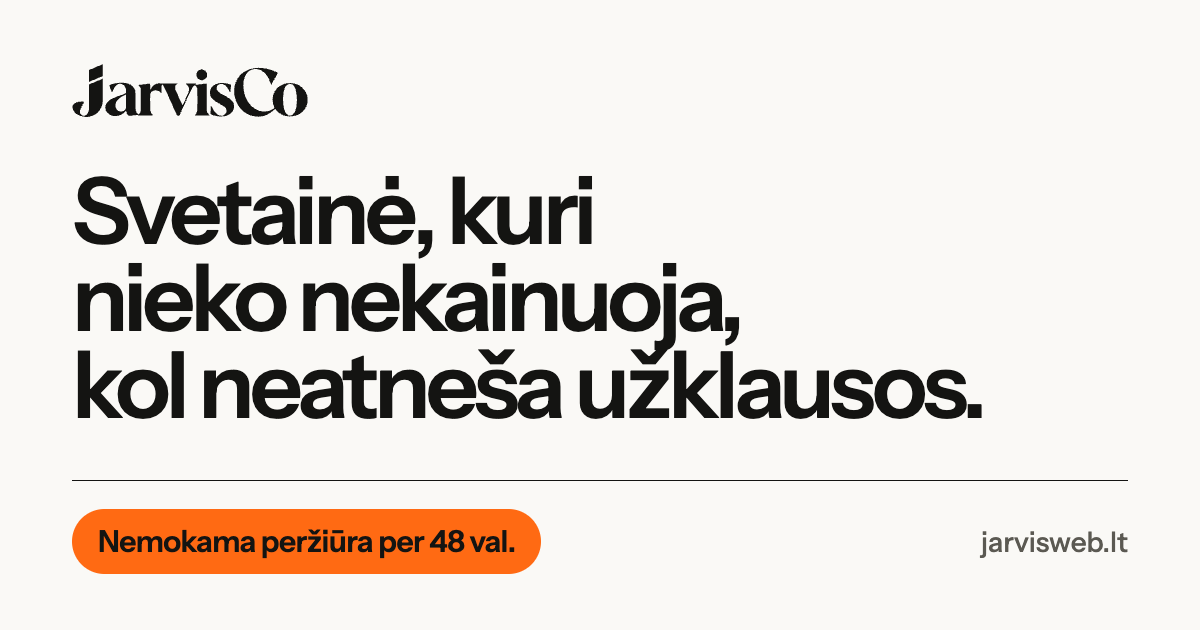
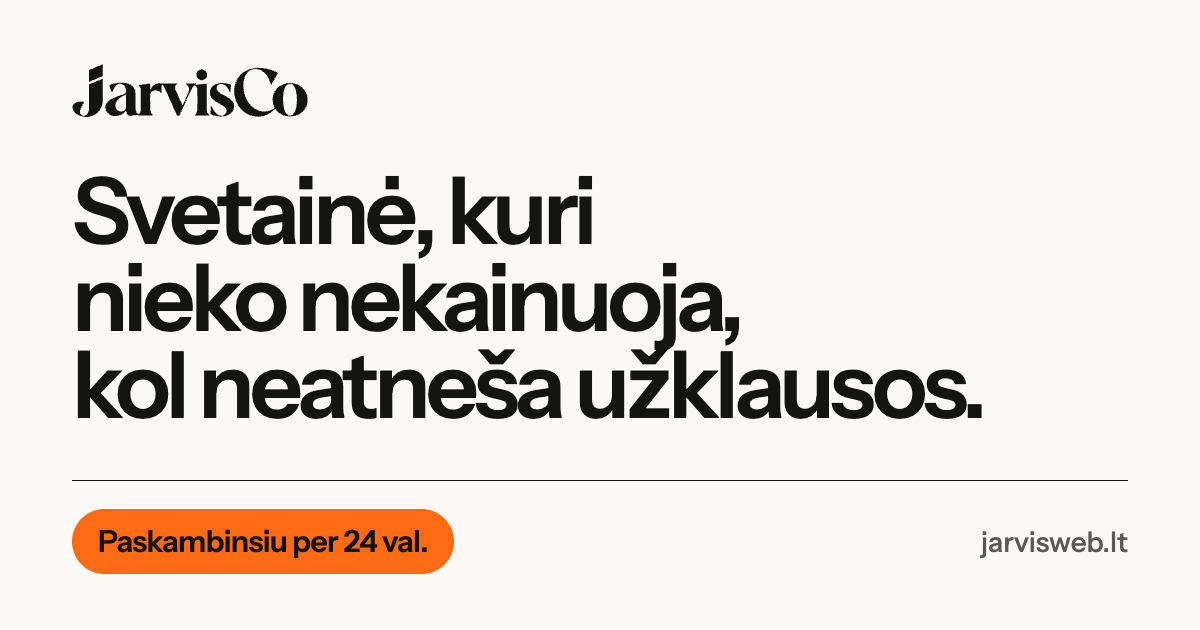
draft: apply Matas-approved copy 1-3 to own site, remove 48 h promise

Changed region(s): [[0.0617, 0.7841, 0.4625, 0.9349]]

diff --git a/src/data/v4.js b/src/data/v4.js
@@ -93,8 +93,12 @@ export function formsProof(f) {
   };
 }
 
-export const ZERO = '0 € pirmąsias 60 dienų nuo paleidimo.';
-export const DOMAIN = 'Domeną (~15 € per metus) apmokate Jūs, ir jis registruojamas Jūsų vardu.';
+export const ZERO = '0 € pirmąsias 60 dienų nuo svetainės paleidimo Jūsų domene.';
+export const DOMAIN = 'Jei reikia naujo domeno, jo mokestį (~15 € per metus) apmokate Jūs. Domenas registruojamas Jūsų vardu.';
+// Matas-approved 2026-10-25 (approved-copy-lt.md): 1 = callback + preview, 2 = work order, 3 = trial start.
+export const COPY_CALLBACK = 'Palikite kontaktus – paskambinsiu per 24 valandas. Gavęs reikiamus duomenis ir, jei reikia naujo domeno, jo apmokėjimą, per dvi darbo dienas paruošiu Jūsų svetainės peržiūrą.';
+export const COPY_ORDER = 'Po pokalbio ir susitarimo atsiunčiu vieną nuorodą trūkstamiems duomenims pateikti. Jei reikia naujo domeno, apmokate jo mokestį – apie 15 € per metus. Gavęs duomenis ir apmokėjimą, domeną registruoju Jūsų vardu ir paruošiu svetainės peržiūrą. Jei domeną jau turite, susitariame dėl jo prieigos. Peržiūrą pakoreguoju pagal Jūsų pastabas ir, Jums patvirtinus, paleidžiu svetainę.';
+export const COPY_TRIAL = '60 dienų bandomasis laikotarpis be mėnesinio mokesčio prasideda, kai Jūsų patvirtintą svetainę paleidžiu Jūsų domene ir ji veikia.';
 export const MAIN_CTA = 'Gauti nemokamą peržiūrą';
 
 export const header = {
@@ -128,12 +132,12 @@ export const hero = {
     lines: [`${formsTwoMonths} užklausų vien per formą`, 'per 2 mėnesius.'],
     sub: [
       `Tiek užklausų per svetainės formą per rugpjūtį ir rugsėjį gavo arboristas Mantas Gerulis (arbcut.lt). Skambučiai neįskaičiuoti. Žemiau – originalios ekrano kopijos.`,
-      'Tokią pat svetainę galiu sukurti ir Jums: pirmąsias 60 dienų mėnesio mokesčio nėra, mokate tik už domeną (~15 € per metus). Tada pagal ataskaitą nusprendžiate, ar tęsti.',
+      'Tokią pat svetainę galiu sukurti ir Jums: pirmąsias 60 dienų mėnesio mokesčio nėra, jei reikia naujo domeno, mokate tik jo mokestį (~15 € per metus). Tada pagal ataskaitą nusprendžiate, ar tęsti.',
     ],
   },
   sub: [
-    'Nemokama Jūsų svetainės peržiūra per 48 val. Paleidus svetainę pirmąsias 60 dienų mėnesio mokesčio nėra, o tada pagal ataskaitą nusprendžiate, ar tęsti.',
-    'Mokate tik už domeną (~15 € per metus), ir jis registruojamas Jūsų vardu.',
+    COPY_CALLBACK,
+    COPY_TRIAL,
   ],
   sms: 'Parašyti SMS',
   // Hero plan §4 (concept A1): an illustration, not a client. The flat lay is AI-generated; the screen is a real screenshot of our demo.
@@ -142,9 +146,9 @@ export const hero = {
 };
 
 export const offerRow = [
-  { big: 'Nemokama', text: 'peržiūra per 48 val.' },
-  { big: '0 €', text: 'pirmąsias 60 dienų nuo paleidimo' },
-  { big: 'Domenas', text: 'Jūsų vardu, ~15 € per metus' },
+  { big: 'Per 24 val.', text: 'paskambinsiu po užklausos' },
+  { big: '0 €', text: 'pirmąsias 60 dienų nuo paleidimo Jūsų domene' },
+  { big: 'Naujas domenas', text: 'jei reikia: Jūsų vardu, ~15 € per metus' },
   { big: 'Atsisakyti', text: 'galite bet kada' },
 ];
 
@@ -194,12 +198,12 @@ export const compare = {
 
 export const how = {
   label: 'Kaip tai veikia',
-  title: 'Keturi žingsniai, mokate tik paskutiniame',
-  text: 'Nuo formos iki veikiančios svetainės. Visą darbą darau pats.',
+  title: 'Keturi žingsniai nuo formos iki paleidimo',
+  text: COPY_ORDER,
   steps: [
     { title: 'Forma, 2 min.', text: 'Atsakote į kelis klausimus apie savo darbą.' },
-    { title: 'Peržiūra per 48 val.', text: 'Atsiunčiu nuorodą į Jūsų svetainės peržiūrą. Nepatinka – tiesiog neatsakote.' },
-    { title: 'Domenas ir paleidimas', text: 'Patinka – registruoju domeną Jūsų vardu (~15 € per metus, mokate Jūs). Paleidžiu svetainę ir Google verslo profilį.' },
+    { title: 'Peržiūra per dvi darbo dienas', text: 'Gavęs reikiamus duomenis ir, jei reikia naujo domeno, jo apmokėjimą, per dvi darbo dienas paruošiu Jūsų svetainės peržiūrą.' },
+    { title: 'Pastabos ir paleidimas', text: 'Peržiūrą pakoreguoju pagal Jūsų pastabas ir, Jums patvirtinus, paleidžiu svetainę bei Google verslo profilį.' },
     { title: 'Po 60 dienų – ataskaita', text: 'Atsiunčiu ataskaitą: kiek žmonių rado svetainę Google, paspaudė „Skambinti“ ir parašė. Tęsiate už 49 € per mėnesį arba atsisakote, ir tai nieko nekainuoja.' },
   ],
 };
@@ -220,7 +224,7 @@ export const examples = {
   // Hero plan §5 D3: generic portal card, demo data only, no real portal, rating or person.
   beforeAfter: {
     from: 'Iš to, ką jau turite internete',
-    to: 'tokia svetainė per 48 val.',
+    to: 'tokia gali būti Jūsų svetainė',
     beforeTag: 'Prieš: profilis portale',
     afterTag: 'Po: Jūsų svetainė',
     portal: 'Paslaugų portalas',
@@ -242,7 +246,7 @@ export const price = {
   // Jarvis 2026-10-22: 39 € is the founder price for the first 5 clients only (slot rule A2); clients #6–10 pay 49 € (Matas 2026-10-22), locked while subscribed.
   // The founder line follows FOUNDER_SLOTS_LEFT in ./founder.js (edit only that number).
   launch: founderLaunch,
-  before: `${ZERO} ${DOMAIN}`,
+  before: `${COPY_TRIAL} ${DOMAIN}`,
   includesTitle: 'Į kainą įeina',
   includes: [
     'Svetainė ir talpinimas',
@@ -271,11 +275,11 @@ export const faq = {
   title: 'Dažni klausimai',
   items: [
     { q: 'Darbo per valias, kam man?', a: 'Svetainė nebūtinai reiškia daugiau darbo. Daugiau užklausų – daugiau pasirinkimo, kuriuos darbus imti. O ramesniu sezonu ji jau būna Google.' },
-    { q: 'Turėjau svetainę, nieko nedavė', a: 'Dažniausiai tokia svetainė tiesiog niekam nerodoma: nėra Google verslo profilio, nėra puslapių pagal paslaugas ir miestus. Čia jie įeina. Ir pirmąsias 60 dienų mėnesio mokesčio nėra, todėl rezultatą pamatysite prieš mokėdami.' },
-    { q: 'Kas, jei neatneš užklausų?', a: `Pirmąsias 60 dienų nuo paleidimo mėnesio mokesčio nėra – mokate tik už domeną (~15 € per metus). Tada atsiunčiu ataskaitą. Jei rezultatas netenkina, atsisakote, ir tai nieko nekainuoja. Jei liksite, toliau – 49 € per mėnesį${founderNote}.` },
+    { q: 'Turėjau svetainę, nieko nedavė', a: 'Dažniausiai tokia svetainė tiesiog niekam nerodoma: nėra Google verslo profilio, nėra puslapių pagal paslaugas ir miestus. Čia jie įeina. Ir pirmąsias 60 dienų mėnesio mokesčio nėra, todėl rezultatą pamatysite prieš pradėdami mokėti kas mėnesį.' },
+    { q: 'Kas, jei neatneš užklausų?', a: `Pirmąsias 60 dienų nuo svetainės paleidimo Jūsų domene mėnesio mokesčio nėra – jei reikia naujo domeno, mokate tik jo mokestį (~15 € per metus). Tada atsiunčiu ataskaitą. Jei rezultatas netenkina, atsisakote, ir tai nieko nekainuoja. Jei liksite, toliau – 49 € per mėnesį${founderNote}.` },
     { q: 'Ar būsiu pirmas Google?', a: 'To pažadėti negaliu, ir niekas sąžiningai negali. Padarau tai, kas priklauso nuo manęs: greita svetainė, puslapiai pagal paslaugas ir miestus, Google verslo profilis. Kaip sekasi, matysite mėnesio ataskaitoje.' },
     { q: 'Kas, jei atsisakysiu?', a: 'Parašote SMS arba paskambinate. Per bandomąjį laikotarpį tai nieko nekainuoja. Vėliau svetainė veikia iki apmokėto mėnesio pabaigos ir tada išjungiama. Domenas, Google profilis, Jūsų nuotraukos ir tekstai lieka Jums.' },
-    { q: 'Kodėl nemokamai pradžiai?', a: 'Nes sunku patikėti svetaine, kol nematai rezultato. Rizikuoju savo laiku: jei po 60 dienų rezultatai Jūsų netenkins, nieko neuždirbu. Jūs mokate tik už domeną, ir jis lieka Jūsų vardu.' },
+    { q: 'Kodėl nemokamai pradžiai?', a: 'Nes sunku patikėti svetaine, kol nematai rezultato. Rizikuoju savo laiku: jei po 60 dienų rezultatai Jūsų netenkins, nieko neuždirbu. Jei reikia naujo domeno, mokate tik jo mokestį; domenas lieka Jūsų vardu.' },
     { q: 'Neturiu nuotraukų ar logotipo', a: 'Nieko tokio. Su Jūsų leidimu paimsiu darbų nuotraukas iš Jūsų profilio internete (pvz., Paslaugos.lt), o vietoj logotipo bus tvarkingai užrašytas pavadinimas. Vėliau viską galima pakeisti.' },
   ],
 };
@@ -283,7 +287,7 @@ export const faq = {
 export const cta = {
   label: 'Peržiūra',
   title: 'Pažiūrėkite, kaip atrodytų Jūsų svetainė',
-  text: 'Keli trumpi klausimai, apie 2 minutes. Peržiūrą atsiųsiu per 48 val. Nepatiks – tiesiog neatsakykite.',
+  text: COPY_CALLBACK,
 };
 
 /* Step-by-step form (§4.3). Trade and years have no wire field: the script
@@ -350,14 +354,14 @@ export const footer = {
 export const meta = {
   home: {
     title: 'Svetainės paslaugų meistrams, nemokama peržiūra | jarvisweb.lt',
-    description: `Nemokama Jūsų svetainės peržiūra per 48 val. Paleidus – ${ZERO} Mokate tik už domeną (~15 € per metus), jis Jūsų vardu.`,
+    description: `Palikite kontaktus – paskambinsiu per 24 valandas. ${ZERO} Jei reikia naujo domeno, jo mokestis ~15 € per metus.`,
   },
   heating: {
     title: 'Svetainė šildymo meistrui | jarvisweb.lt',
-    description: `Šildymo meistrams: nemokama svetainės peržiūra per 48 val. Paleidus – ${ZERO} Mokate tik už domeną (~15 € per metus).`,
+    description: `Šildymo meistrams: palikite kontaktus – paskambinsiu per 24 valandas. ${ZERO} Jei reikia naujo domeno, jo mokestis ~15 € per metus.`,
   },
   results: {
     title: `${formsTwoMonths} užklausų per 2 mėnesius – arbcut.lt rezultatai | jarvisweb.lt`,
-    description: `Arboristo svetainė arbcut.lt per rugpjūtį ir rugsėjį sulaukė ${formsTwoMonths} užklausų vien per formą. Originalios ekrano kopijos. Jūsų svetainė: ${ZERO} Mokate tik už domeną (~15 € per metus).`,
+    description: `Arboristo svetainė arbcut.lt per rugpjūtį ir rugsėjį sulaukė ${formsTwoMonths} užklausų vien per formą. Originalios ekrano kopijos. Jūsų svetainė: ${ZERO} Jei reikia naujo domeno, jo mokestis ~15 € per metus.`,
   },
 };

diff --git a/src/data/content.js b/src/data/content.js
@@ -412,7 +412,7 @@ export const funnel = {
   meta: {
     title: 'Nemokama Jūsų svetainės peržiūra | jarvisweb.lt',
     description:
-      'Atsakykite į kelis klausimus apie savo darbą, ir per 48 valandas atsiųsiu nuorodą į Jūsų svetainės peržiūrą. Nemokamai, be įsipareigojimų.',
+      'Atsakykite į kelis klausimus apie savo darbą. Palikite kontaktus – paskambinsiu per 24 valandas.',
   },
   nav: [
     { label: 'Pavyzdys', href: '#pavyzdys' },
@@ -422,7 +422,7 @@ export const funnel = {
   hero: {
     eyebrow: 'Nemokama svetainės peržiūra',
     h1: 'Nemokamai parodysiu, kaip atrodytų Jūsų svetainė.',
-    sub: 'Atsakykite į kelis klausimus apie savo darbą. Per 48 valandas paruošiu Jūsų svetainės peržiūrą ir nuorodą atsiųsiu SMS žinute. Nieko nemokate ir niekuo neįsipareigojate.',
+    sub: 'Palikite kontaktus – paskambinsiu per 24 valandas. Gavęs reikiamus duomenis ir, jei reikia naujo domeno, jo apmokėjimą, per dvi darbo dienas paruošiu Jūsų svetainės peržiūrą.',
     jump: 'Noriu peržiūros',
     by: 'Matas Bašinskas, svetainių kūrėjas, Kaunas',
   },
@@ -435,7 +435,7 @@ export const funnel = {
   },
   cta: {
     title: 'Norite tokios peržiūros?',
-    text: 'Tai nemokama. Jei peržiūra nepatiks, tiesiog neatsakykite.',
+    text: 'Palikite kontaktus – paskambinsiu per 24 valandas.',
     button: 'Taip, noriu nemokamos peržiūros',
   },
   // Service checkboxes by proof-code prefix (spec §2). No list = free text.
@@ -498,9 +498,9 @@ export const funnel = {
       rateLimited: 'Per daug bandymų iš eilės. Pabandykite po kelių minučių.',
       failure: `Nepavyko išsiųsti. Pabandykite dar kartą arba skambinkite ${PHONE}.`,
     },
-    // {name} = vocative first name, {date} = +48 h in Europe/Vilnius.
+    // {name} = vocative first name.
     thanks: {
-      preview: 'Ačiū{name}. Peržiūros nuorodą atsiųsiu {via} per 48 val., iki {date}.',
+      preview: 'Ačiū{name}. Paskambinsiu per 24 valandas.',
       callback: 'Ačiū{name}. {time}',
       times: {
         morning: 'Paskambinsiu rytą.',
@@ -517,7 +517,7 @@ export const funnel = {
 /* Homepage button to the same form without a code (phone field shown). */
 export const previewOffer = {
   title: 'Norite pamatyti savo svetainę prieš mokėdami?',
-  text: 'Atsakykite į kelis klausimus, ir per 48 valandas atsiųsiu nemokamą Jūsų svetainės peržiūrą.',
+  text: 'Palikite kontaktus – paskambinsiu per 24 valandas. Gavęs reikiamus duomenis ir, jei reikia naujo domeno, jo apmokėjimą, per dvi darbo dienas paruošiu Jūsų svetainės peržiūrą.',
   button: 'Gauti nemokamą peržiūrą',
   href: '/noriu#forma',
 };
